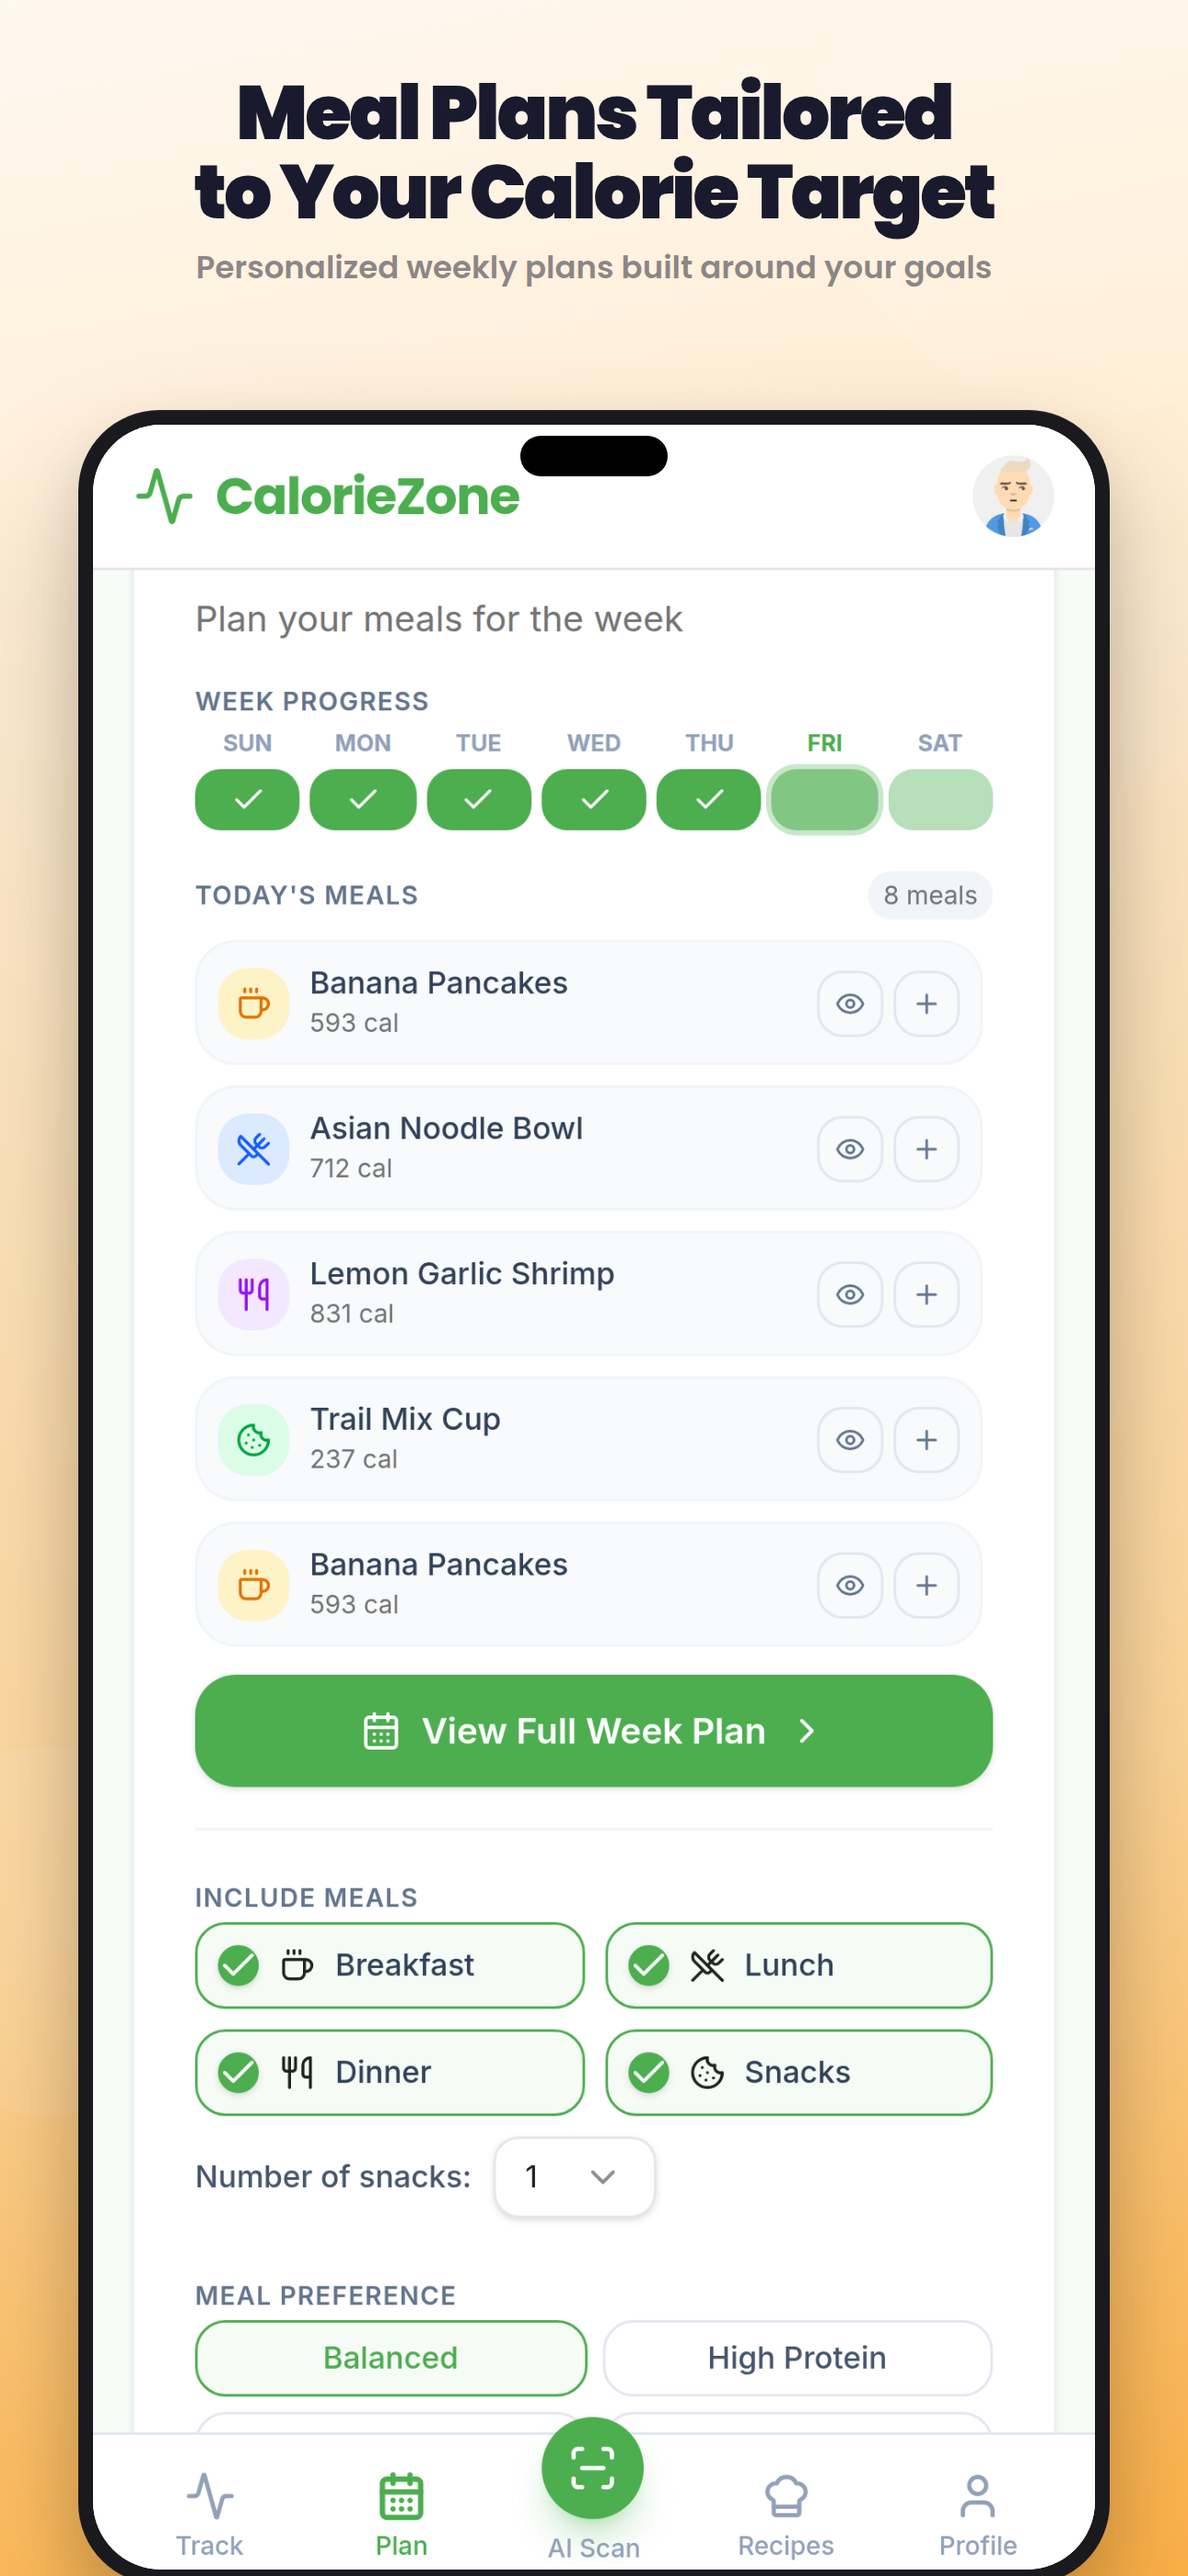
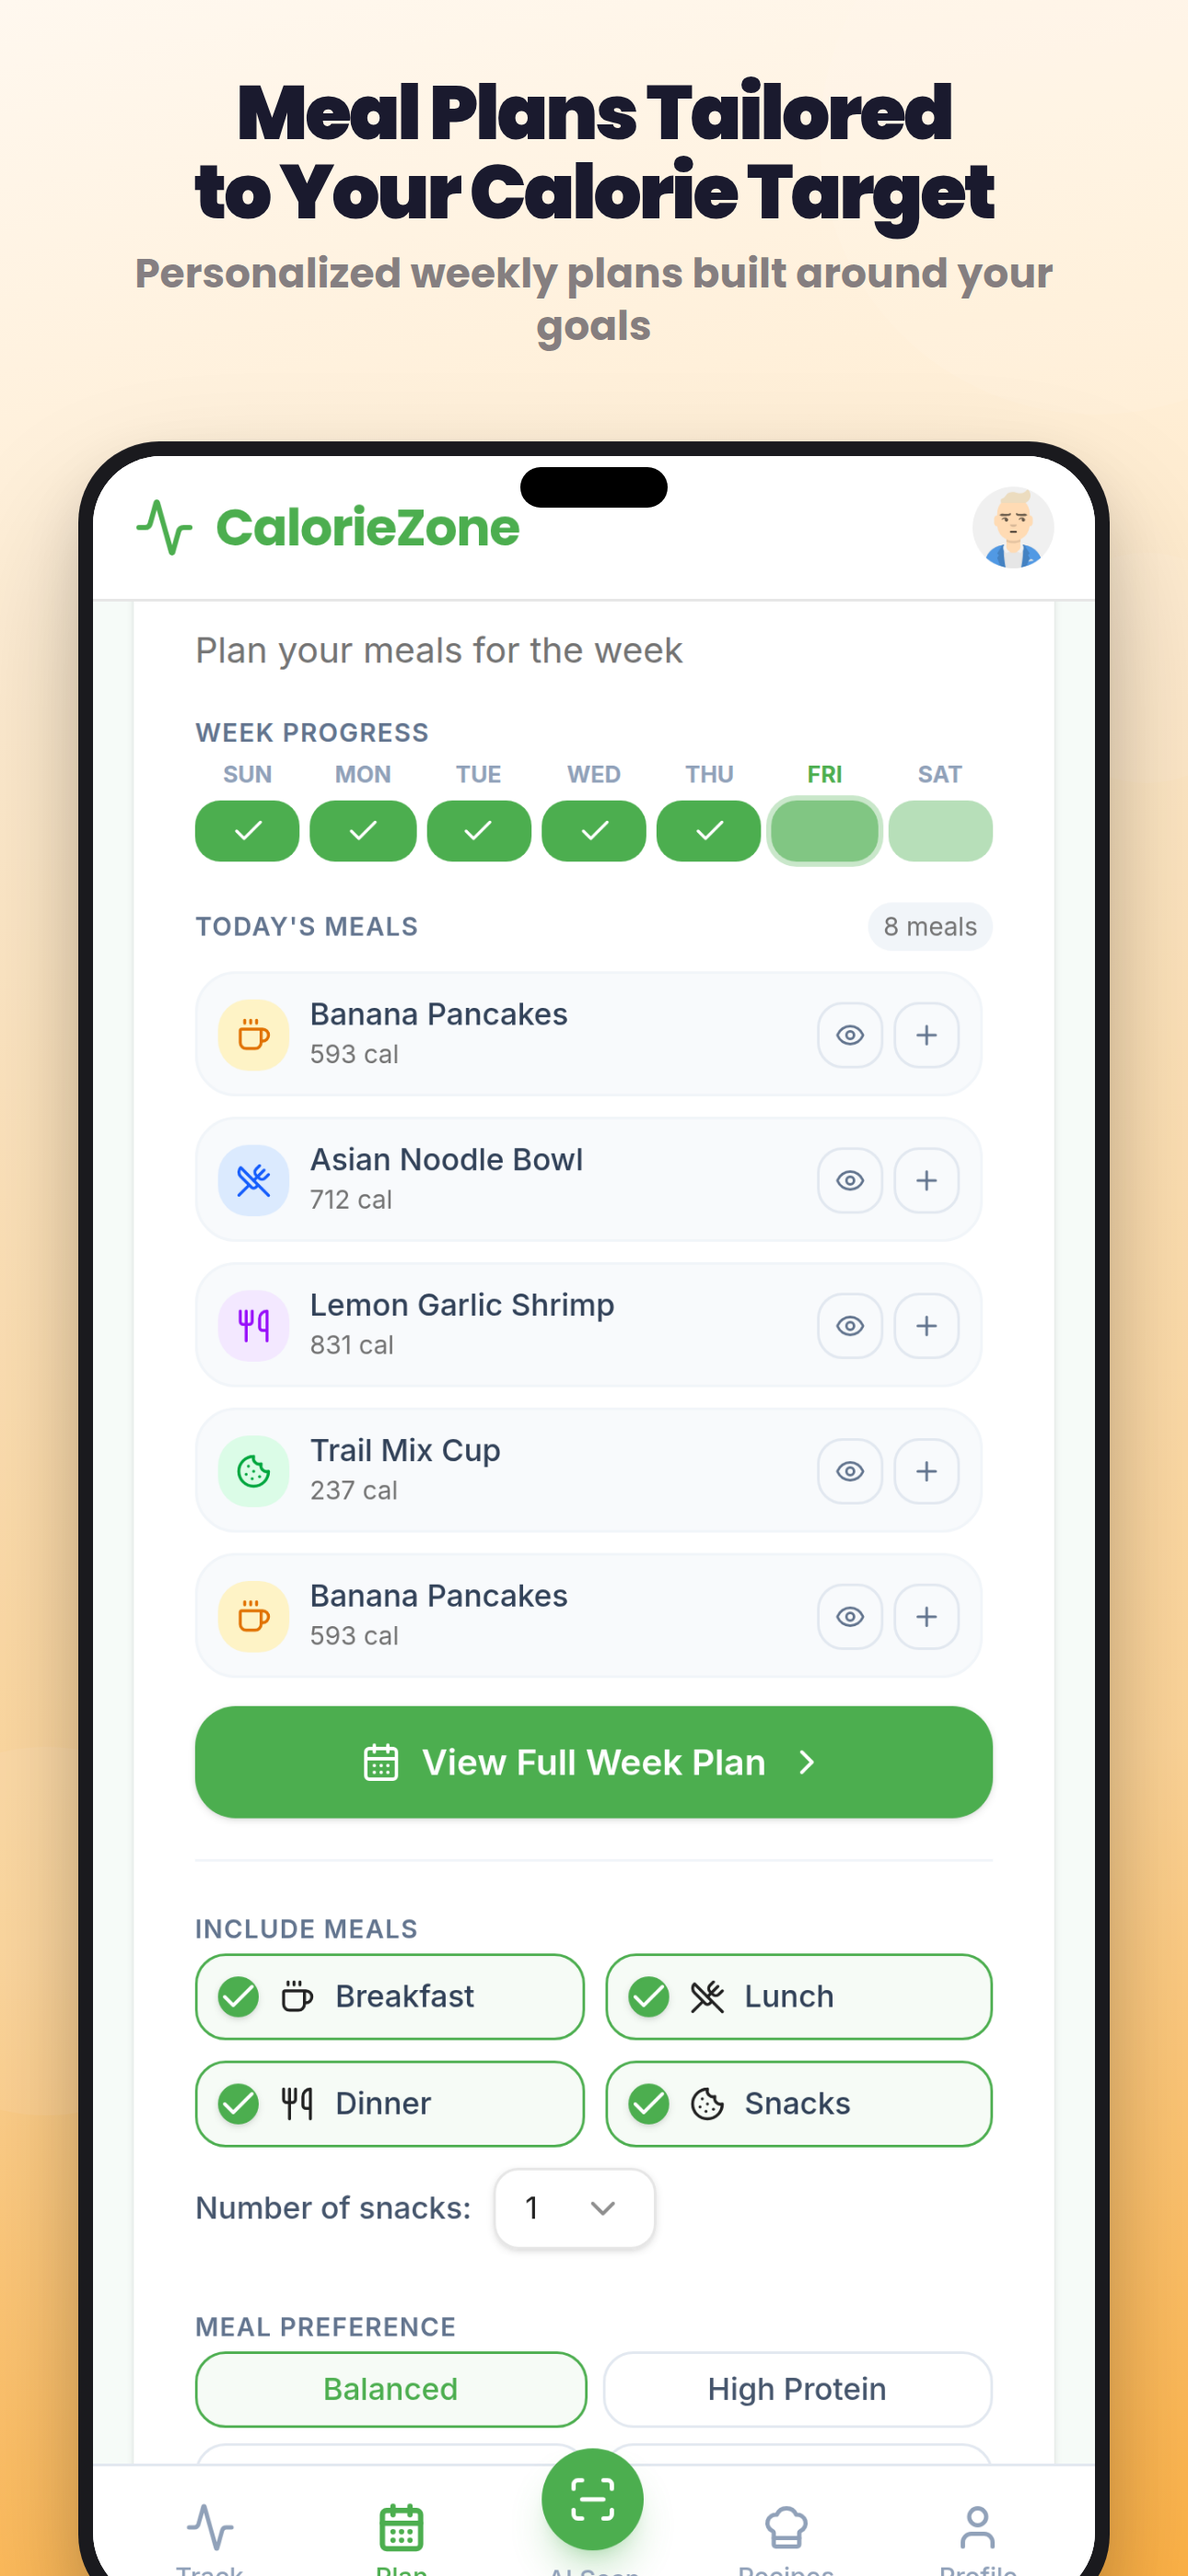
Make promotional screenshot sub-descriptions larger and more prominent
Update HTML template to increase font size and weight for sub-descriptions on promotional screenshots.

Replit-Commit-Author: Agent
Replit-Commit-Session-Id: d0c98cd4-3401-4b9a-9fcc-3167ef5b7d4c
Replit-Commit-Checkpoint-Type: full_checkpoint
Replit-Commit-Event-Id: 947d2d02-5ef9-4127-96fb-93da05eaacfe
Replit-Commit-Screenshot-Url: https://storage.googleapis.com/screenshot-production-us-central1/b5252e75-7d72-4a27-a063-837869a7ea78/d0c98cd4-3401-4b9a-9fcc-3167ef5b7d4c/rSIcFYS
Replit-Helium-Checkpoint-Created: true

diff --git a/screenshots/promo-template.html b/screenshots/promo-template.html
@@ -50,11 +50,11 @@
   }
 
   .subtext {
-    font-size: 34px;
-    font-weight: 600;
-    color: rgba(26, 26, 46, 0.5);
-    line-height: 1.35;
-    max-width: 900px;
+    font-size: 44px;
+    font-weight: 700;
+    color: rgba(26, 26, 46, 0.55);
+    line-height: 1.3;
+    max-width: 1000px;
     margin: 0 auto;
   }
 
